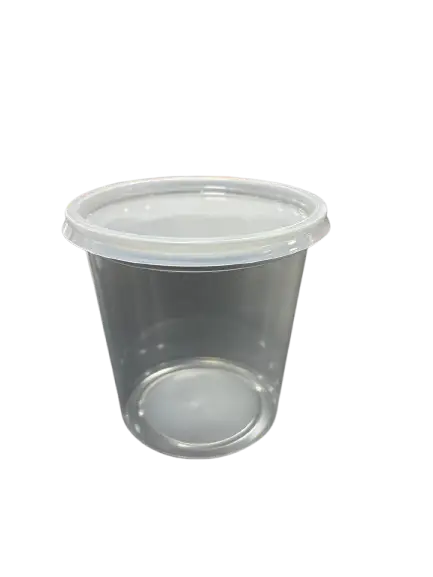
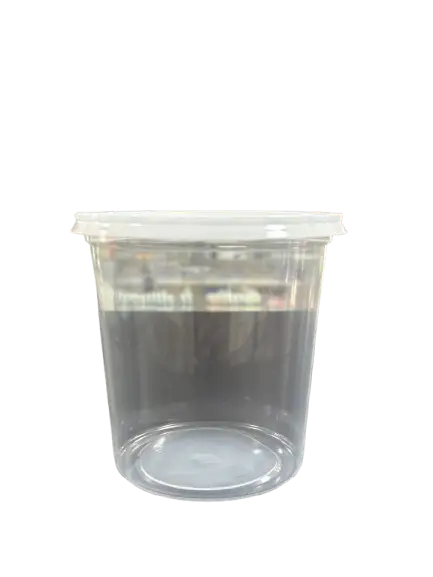
agregue las fotos que faltaban de vasos y potes

Changed region(s): [[0.1501, 0.2808, 0.8106, 0.8735]]

diff --git a/src/data/products.js b/src/data/products.js
@@ -141,7 +141,7 @@ export const categories = [
         { name: 'Rollo Aluminio 30x5mtr', size: '-', precio: '$1.600', image:'/papel/rolloAluminio5mts.webp' },
         { name: 'Rollo Aluminio 38x50mtr', size: '-', precio: '$11.700', image:'/papel/rolloAluminio50mts.webp' },
         { name: 'Papel Aluminio', size: '-', precio: '$11.700', image:'/papel/papelAluminio.webp' },
-        { name: 'Rollo Manteca 30x5mtr', size: '-', precio: '$1.500', image:'' },
+        { name: 'Rollo Manteca 30x5mtr', size: '-', precio: '$1.500', image:'/papel/rolloPapelManteca5mts.webp' },
         { name: 'Rollo Manteca 38x50mtr', size: '-', precio: '$15.200', image:'/papel/rolloManteca50mts.webp' },
         { name: 'Papel Parafinado', size: '-', precio: '$11.700', image:'/papel/papelParafinado.webp' },
         { name: 'Papel Parafinado Estampado', size: '-', precio: '$11.700', image:'/papel/papelParafinadoEstampado.webp' },
@@ -199,29 +199,30 @@ export const categories = [
         name: 'Potes Plásticos',
         description: 'Con y sin tapa, bisagras, vainilla',
         products: [
-        { name: 'Pote 55cc (sin tapa)', size: 'x100', precio: '$60 / $5.700', image:'' },
-        { name: 'Pote 80cc (sin tapa)', size: 'x100', precio: '$60 / $5.700', image:'' },
-        { name: 'Pote 110cc (sin tapa)', size: 'x100', precio: '$60 / $5.700', image:'' },
+        { name: 'Pote 55cc (sin tapa)', size: 'x100', precio: '$60 / $5.700', image:'/potes/potePlastico55cc.webp' },
+        { name: 'Pote 110cc (sin tapa)', size: 'x100', precio: '$60 / $5.700', image:'/potes/potePlastico110cc.webp' },
         { name: 'Pote 150cc (sin tapa)', size: 'x100', precio: '$50 / $4.760', image:'/potes/potePlastico150cc.webp' },
         { name: 'Pote 250cc (sin tapa)', size: 'x100', precio: '$60 / $5.700', image:'/potes/potePlastico250cc.webp' },
-        { name: 'Pote 500cc (sin tapa)', size: 'x100', precio: '$100 / $9.500', image:'' },
-        { name: 'Pote 1000cc (sin tapa)', size: 'x100', precio: '$200 / $19.000', image:'' },
-        { name: 'Pote 55cc (con tapa)', size: 'x100', precio: '$100 / $9.500', image:'' },
-        { name: 'Pote 80cc (con tapa)', size: 'x100', precio: '$100 / $9.500', image:'' },
-        { name: 'Pote 110cc (con tapa)', size: 'x100', precio: '$100 / $9.500', image:'' },
-        { name: 'Pote 150cc (con tapa)', size: 'x100', precio: '$90 / $8.570', image:'' },
-        { name: 'Pote 250cc (con tapa)', size: 'x100', precio: '$100 / $9.500', image:'' },
+        { name: 'Pote 500cc (sin tapa)', size: 'x100', precio: '$100 / $9.500', image:'/potes/potePlastico500cc.webp' },
+        { name: 'Pote 1000cc (sin tapa)', size: 'x100', precio: '$200 / $19.000', image:'/potes/potePlastico1000cc.webp' },
+        { name: 'Pote 55cc (con tapa)', size: 'x100', precio: '$100 / $9.500', image:'/potes/potePlasticoConTapa55cc.webp' },
+        { name: 'Pote 110cc (con tapa)', size: 'x100', precio: '$100 / $9.500', image:'/potes/potePlasticoConTapa110cc.webp' },
+        { name: 'Pote 150cc (con tapa)', size: 'x100', precio: '$90 / $8.570', image:'/potes/potePlasticoConTapa150cc.webp' },
+        { name: 'Pote 250cc (con tapa)', size: 'x100', precio: '$100 / $9.500', image:'/potes/potePlasticoConTapa250cc.webp' },
         { name: 'Pote 500cc (con tapa)', size: 'x100', precio: '$140 / $13.340', image:'/potes/potePlasticoConTapa500cc.webp' },
         { name: 'Pote 1000cc (con tapa)', size: 'x100', precio: '$300 / $28.570', image:'/potes/potePlasticoConTapa1000cc.webp' },
         { name: 'Bisagra Redondo 230cc', size: 'x100', precio: '$150 / $14.290', image:'/potes/potesBisagras.webp' },
         { name: 'Bisagra Redondo 330cc', size: 'x100', precio: '$160 / $15.240', image:'/potes/potesBisagras.webp' },
         { name: 'Bisagra Redondo 450cc', size: 'x100', precio: '$170 / $16.190', image:'/potes/potesBisagras.webp' },
-        { name: 'Bisagra Cuadrado 230cc', size: 'x100', precio: '$270 / $25.700', image:'' },
-        { name: 'Bisagra Cuadrado 390cc', size: 'x100', precio: '$280 / $26.670', image:'' },
-        { name: 'Bisagra Cuadrado 500cc', size: 'x100', precio: '$370 / $35.240', image:'' },
-        { name: 'Vainilla 280cc', size: 'x100', precio: '$140 / $13.340', image:'' },
-        { name: 'Vainilla 360cc', size: 'x100', precio: '$160 / $15.240', image:'' },
-        { name: 'Vainilla 460cc', size: 'x100', precio: '$230 / $21.900', image:'' },
+        { name: 'Bisagra Cuadrado 230cc', size: 'x100', precio: '$270 / $25.700', image:'/potes/poteBisagraCuadrado230cc.webp' },
+        { name: 'Bisagra Cuadrado 390cc', size: 'x100', precio: '$280 / $26.670', image:'/potes/poteBisagraCuadrado390cc.webp' },
+        { name: 'Bisagra Cuadrado 500cc', size: 'x100', precio: '$370 / $35.240', image:'/potes/poteBisagraCuadrado500cc.webp' },
+        { name: 'Vainilla 280cc (sin tapa)', size: 'x100', precio: '$140 / $13.340', image:'/potes/poteVainilla280cc.webp' },
+        { name: 'Vainilla 360cc (sin tapa)', size: 'x100', precio: '$160 / $15.240', image:'/potes/poteVainilla360cc.webp' },
+        { name: 'Vainilla 460cc (sin tapa)', size: 'x100', precio: '$230 / $21.900', image:'/potes/poteVainilla360cc.webp' },
+        { name: 'Vainilla 280cc (con tapa)', size: 'x100', precio: '$140 / $13.340', image:'/potes/poteVainillaConTapa280cc.webp' },
+        { name: 'Vainilla 360cc (con tapa)', size: 'x100', precio: '$160 / $15.240', image:'/potes/poteVainillaConTapa360cc.webp' },
+        { name: 'Vainilla 460cc (con tapa)', size: 'x100', precio: '$230 / $21.900', image:'/potes/poteVainillaConTapa360cc.webp' },
         ]
     },
     {
@@ -233,9 +234,9 @@ export const categories = [
         { name: 'Vaso Plástico 180cc', size: 'x100', precio: '$30 / $2.860', image:'/vasos/vasoPlastico.webp' },
         { name: 'Vaso Plástico 220cc', size: 'x100', precio: '$35 / $3.340', image:'/vasos/vasoPlastico.webp' },
         { name: 'Vaso Plástico 330cc', size: 'x100', precio: '$40 / $3.800', image:'/vasos/vasoPlastico.webp' },
-        { name: 'Vaso Plástico 500cc', size: 'x100', precio: '$80 / $7.600', image:'' },
-        { name: 'Vaso Plástico 800cc', size: 'x100', precio: '$120 / $11.430', image:'' },
-        { name: 'Vaso Plástico 1000cc', size: 'x100', precio: '$140 / $13.340', image:'' },
+        { name: 'Vaso Plástico 500cc', size: 'x100', precio: '$80 / $7.600', image:'/vasos/vasoPlastico500cc.webp' },
+        { name: 'Vaso Plástico 800cc', size: 'x100', precio: '$120 / $11.430', image:'/vasos/vasoPlastico800cc.webp' },
+        { name: 'Vaso Plástico 1000cc', size: 'x100', precio: '$140 / $13.340', image:'/vasos/vasoPlastico1000cc.webp' },
         { name: 'Vaso Americano 300cc (Rojo, Azul)', size: 'x50', precio: '$130 / $6.200', image:'/vasos/vasoPlasticoAmericano.webp' },
         { name: 'Vaso Americano 400cc (Rojo, Azul)', size: 'x50', precio: '$160 / $7.600', image:'/vasos/vasoPlasticoAmericano.webp' },
         { name: 'Vaso Neón 300cc (Negro, Celeste, Amarillo, Naranja, Rosa)', size: 'x50', precio: '$130 / $6.200', image:'/vasos/vasoPlasticoColores.webp' },
@@ -245,19 +246,19 @@ export const categories = [
         { name: 'Vaso Térmico 300cc (sin tapa)', size: 'x100', precio: '$130 / $12.400', image:'/vasos/vasoTermico.webp' },
         { name: 'Vaso Térmico 360cc (sin tapa)', size: 'x100', precio: '$160 / $15.200', image:'/vasos/vasoTermico.webp' },
         { name: 'Vaso Térmico 475cc (sin tapa)', size: 'x100', precio: '$220 / $21.000', image:'/vasos/vasoTermico.webp' },
-        { name: 'Vaso Térmico 120cc (con tapa)', size: 'x100', precio: '$130 / $12.400', image:'' },
-        { name: 'Vaso Térmico 180cc (con tapa)', size: 'x100', precio: '$170 / $16.200', image:'' },
-        { name: 'Vaso Térmico 240cc (con tapa)', size: 'x100', precio: '$200 / $19.000', image:'' },
-        { name: 'Vaso Térmico 300cc (con tapa)', size: 'x100', precio: '$220 / $21.000', image:'' },
-        { name: 'Vaso Térmico 360cc (con tapa)', size: 'x100', precio: '$260 / $24.800', image:'' },
-        { name: 'Vaso Polipapel 8 OZ Marrón (sin tapa)', size: 'x50', precio: '$100 / $4.800', image:'' },
-        { name: 'Vaso Polipapel 12 OZ Marrón (sin tapa)', size: 'x50', precio: '$140 / $6.700', image:'' },
-        { name: 'Vaso Polipapel 14 OZ Marrón (sin tapa)', size: 'x50', precio: '$150 / $7.200', image:'' },
-        { name: 'Vaso Polipapel 8 OZ Blanco (sin tapa)', size: 'x50', precio: '$100 / $4.800', image:'' },
-        { name: 'Vaso Polipapel 12 OZ Blanco (sin tapa)', size: 'x50', precio: '$140 / $6.700', image:'' },
-        { name: 'Vaso Polipapel 8 OZ Marrón (con tapa)', size: 'x50', precio: '$170 / $8.000', image:'' },
-        { name: 'Vaso Polipapel 12 OZ Marrón (con tapa)', size: 'x50', precio: '$210 / $10.000', image:'' },
-        { name: 'Vaso Polipapel 14 OZ Marrón (con tapa)', size: 'x50', precio: '$230 / $11.000', image:'' },
+        { name: 'Vaso Térmico 120cc (con tapa)', size: 'x100', precio: '$130 / $12.400', image:'/vasos/vasoTermicoConTapa.webp' },
+        { name: 'Vaso Térmico 180cc (con tapa)', size: 'x100', precio: '$170 / $16.200', image:'/vasos/vasoTermicoConTapa.webp' },
+        { name: 'Vaso Térmico 240cc (con tapa)', size: 'x100', precio: '$200 / $19.000', image:'/vasos/vasoTermicoConTapa.webp' },
+        { name: 'Vaso Térmico 300cc (con tapa)', size: 'x100', precio: '$220 / $21.000', image:'/vasos/vasoTermicoConTapa.webp' },
+        { name: 'Vaso Térmico 360cc (con tapa)', size: 'x100', precio: '$260 / $24.800', image:'/vasos/vasoTermicoConTapa.webp' },
+        { name: 'Vaso Polipapel 8 OZ Marrón (sin tapa)', size: 'x50', precio: '$100 / $4.800', image:'/vasos/vasoPolipapelSinTapaMarron.webp' },
+        { name: 'Vaso Polipapel 12 OZ Marrón (sin tapa)', size: 'x50', precio: '$140 / $6.700', image:'/vasos/vasoPolipapelSinTapaMarron.webp' },
+        { name: 'Vaso Polipapel 14 OZ Marrón (sin tapa)', size: 'x50', precio: '$150 / $7.200', image:'/vasos/vasoPolipapelSinTapaMarron.webp' },
+        { name: 'Vaso Polipapel 8 OZ Blanco (sin tapa)', size: 'x50', precio: '$100 / $4.800', image:'/vasos/vasoPolipapelSinTapaBlanco.webp' },
+        { name: 'Vaso Polipapel 12 OZ Blanco (sin tapa)', size: 'x50', precio: '$140 / $6.700', image:'/vasos/vasoPolipapelSinTapaBlanco.webp' },
+        { name: 'Vaso Polipapel 8 OZ Marrón (con tapa)', size: 'x50', precio: '$170 / $8.000', image:'/vasos/vasoPolipapel8ozMarronConTapa.webp' },
+        { name: 'Vaso Polipapel 12 OZ Marrón (con tapa)', size: 'x50', precio: '$210 / $10.000', image:'/vasos/vasoPolipapel8ozMarronConTapa.webp' },
+        { name: 'Vaso Polipapel 14 OZ Marrón (con tapa)', size: 'x50', precio: '$230 / $11.000', image:'/vasos/vasoPolipapel8ozMarronConTapa.webp' },
         { name: 'Vaso Polipapel 8 OZ Blanco (con tapa)', size: 'x50', precio: '$170 / $8.000', image:'/vasos/vasoPolipapel.webp' },
         { name: 'Vaso Polipapel 12 OZ Blanco (con tapa)', size: 'x50', precio: '$210 / $10.000', image:'/vasos/vasoPolipapel.webp' },
         ]
@@ -319,13 +320,13 @@ export const categories = [
         name: 'Bolsas Camiseta',
         description: 'Bolsas tipo camiseta blancas y de color',
         products: [
-        { name: 'Camiseta Blanca 20x30', unidad: '$1.000', medio: '20 / $19.000', bulto: '40 / $37.000', image:'' },
+        { name: 'Camiseta Blanca 20x30', unidad: '$1.000', medio: '20 / $19.000', bulto: '40 / $37.000', image:'/bolsasCamisetas/bolsaCamiseta30x40Blanca.webp' },
         { name: 'Camiseta Blanca 30x40', unidad: '$1.000', medio: '10 / $9.500', bulto: '20 / $18.500', image:'/bolsasCamisetas/bolsaCamiseta30x40Blanca.webp' },
-        { name: 'Camiseta Blanca 40x50', unidad: '$2.200', medio: '10 / $21.000', bulto: '20 / $40.740', image:'' },
-        { name: 'Camiseta Blanca 45x60', unidad: '$3.300', medio: '10 / $31.430', bulto: '20 / $61.100', image:'' },
-        { name: 'Camiseta Blanca 50x70', unidad: '$4.900', medio: '5 / $23.340', bulto: '10 / $45.370', image:'' },
-        { name: 'Camiseta Blanca 60x90', unidad: '$8.900', medio: '-', bulto: '5 / $41.200', image:'' },
-        { name: 'Camiseta Color 30x40', unidad: '$1.000', medio: '10 / $9.500', bulto: '20 / $18.500', image:'' },
+        { name: 'Camiseta Blanca 40x50', unidad: '$2.200', medio: '10 / $21.000', bulto: '20 / $40.740', image:'/bolsasCamisetas/bolsaCamiseta30x40Blanca.webp' },
+        { name: 'Camiseta Blanca 45x60', unidad: '$3.300', medio: '10 / $31.430', bulto: '20 / $61.100', image:'/bolsasCamisetas/bolsaCamiseta30x40Blanca.webp' },
+        { name: 'Camiseta Blanca 50x70', unidad: '$4.900', medio: '5 / $23.340', bulto: '10 / $45.370', image:'/bolsasCamisetas/bolsaCamiseta30x40Blanca.webp' },
+        { name: 'Camiseta Blanca 60x90', unidad: '$8.900', medio: '-', bulto: '5 / $41.200', image:'/bolsasCamisetas/bolsaCamiseta30x40Blanca.webp' },
+        { name: 'Camiseta Color 30x40', unidad: '$1.000', medio: '10 / $9.500', bulto: '20 / $18.500', image:'/bolsasCamisetas/bolsaCamiseta30x40Color.webp' },
         { name: 'Camiseta Color 40x50', unidad: '$2.200', medio: '10 / $21.000', bulto: '20 / $40.740', image:'/bolsasCamisetas/bolsaCamiseta40x50Color.webp' },
         ]
     },
@@ -355,7 +356,7 @@ export const categories = [
         description: 'Para residuos, consorcio y compactadora',
         products: [
         { name: 'Bolsa Residuo 45x60', precio: '$900', image:'/bolsaBasura/residuo45x60.webp' },
-        { name: 'Bolsa Consorcio 60x90', precio: '$900', image:'' },
+        { name: 'Bolsa Consorcio 60x90', precio: '$900', image:'/bolsaBasura/bolsaConsorcio60x90.webp' },
         { name: 'Bolsa Consorcio 85x110', precio: '$1.700', image:'/bolsaBasura/consorcio85x110.webp' },
         { name: 'Bolsa Compactadora 90x120', precio: '$1.800', image:'/bolsaBasura/consorcio90x120.webp' },
         ]